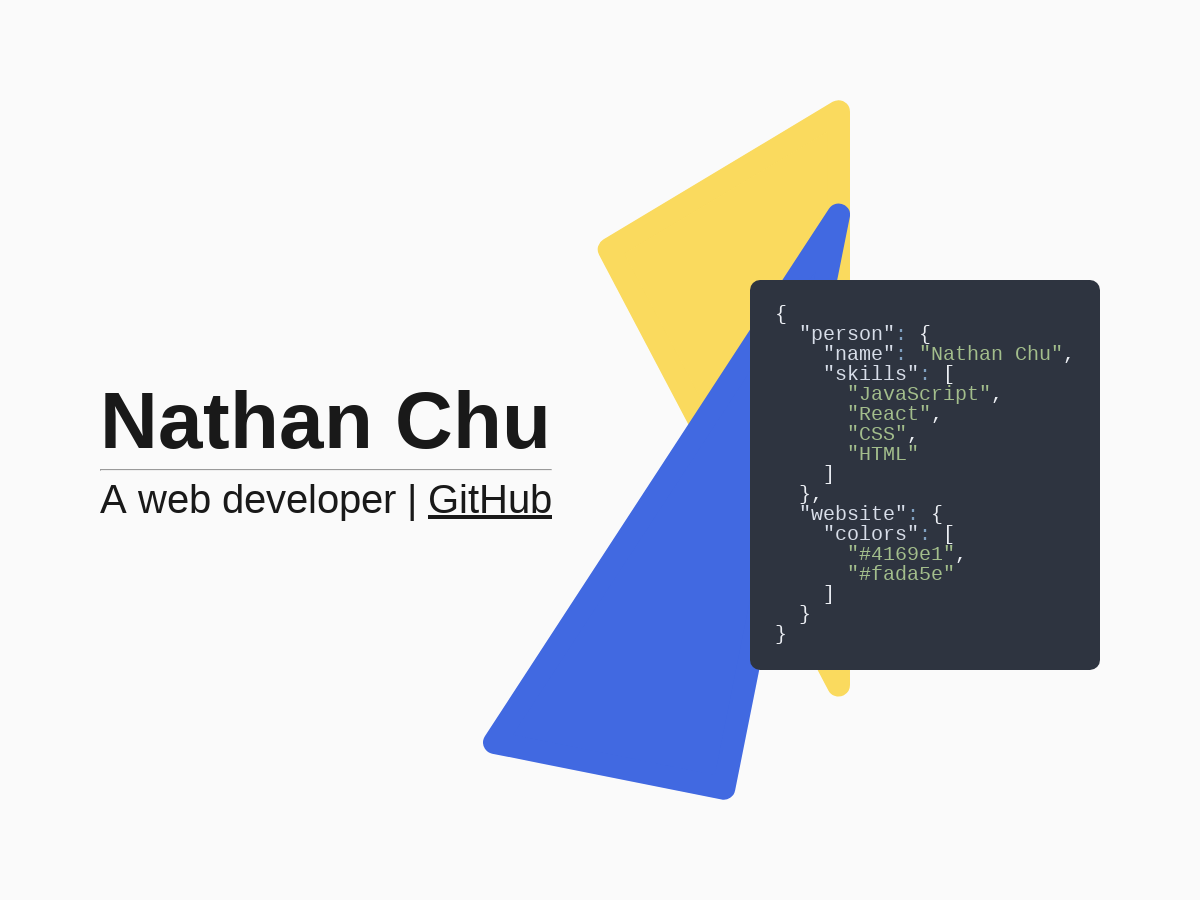
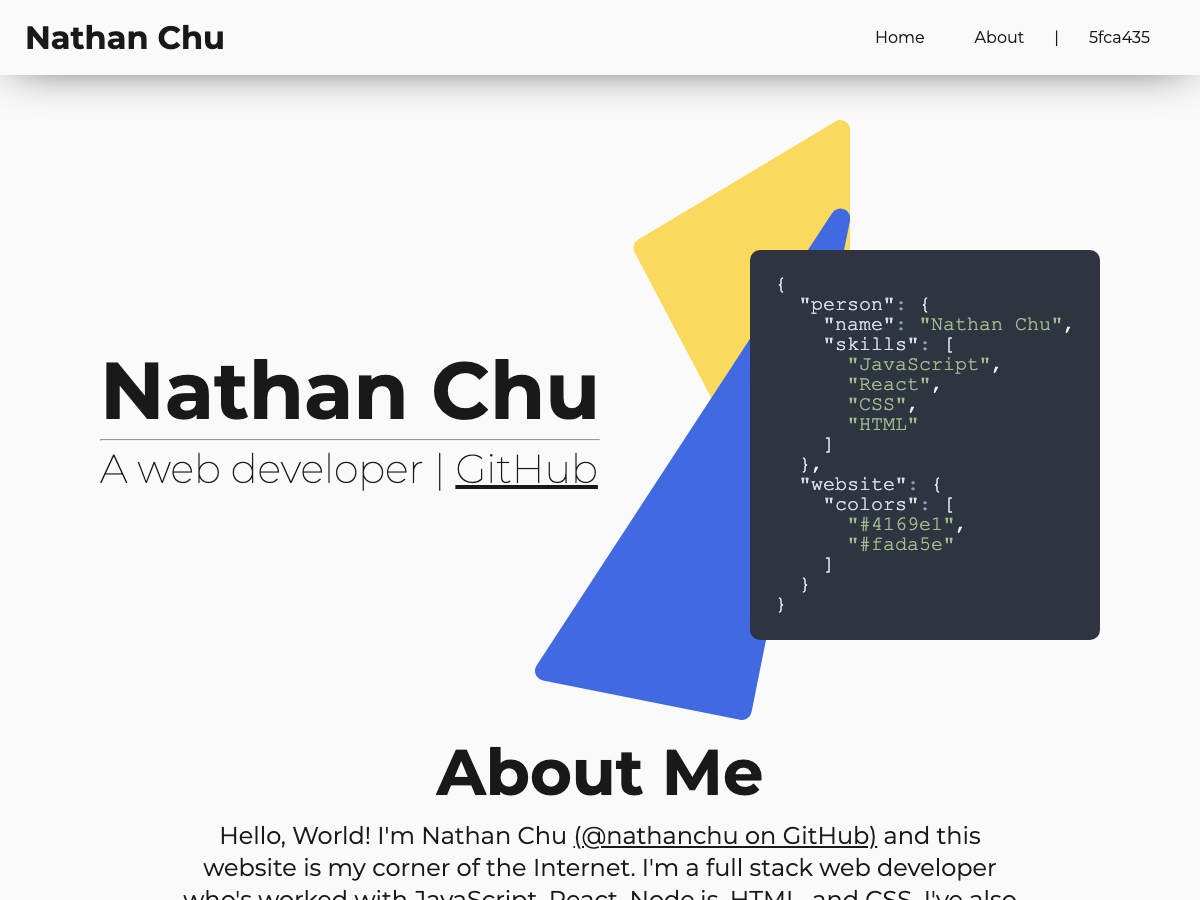
Work on projects

diff --git a/src/components/projects.js b/src/components/projects.js
@@ -1,0 +1,44 @@
+import * as React from 'react'
+import styles from '../css/projects.module.css'
+import { Card, ImageCard } from './cards'
+import { StaticImage } from 'gatsby-plugin-image'
+import { aProps } from '../utilities'
+
+const projects = [
+  {
+    title: 'My Website',
+    website: 'https://nathanchu.com/',
+    repo: 'nathanchu/website',
+    description: "The website you're looking at right now! It's built using Gatsby, and hosted on Vercel. It's highly customizable if you want to do that, too!",
+    image: <StaticImage src="../images/projects/website.png" />
+  },
+  {
+    title: 'Weather App',
+    repo: 'Ryyn-Sd/weather',
+    website: 'https://weather.rayyansaidi.com/',
+    description: "A weather app I worked on using openweathermap and React. It detects your location through your ip, but also allows you to change your zip code.",
+    image: <StaticImage src="../images/projects/weather.png" />
+  }
+]
+
+const Projects = () => {
+  return (
+    <div className={styles.projects}>
+      <h1>Projects</h1>
+      {
+        projects.map(({title, repo, website, description, image}) => (
+          <div className={styles.project}>
+            <Card>
+              <h2><a {...aProps} href={website}>{title}</a> (<a {...aProps} href={`https://github.com/${repo}`}>{repo}</a>)</h2>
+              <br />
+              <p>{description}</p>
+            </Card>
+            <ImageCard><a {...aProps} href={website}>{image}</a></ImageCard>
+          </div>
+        ))
+      }
+    </div>
+  )
+}
+
+export default Projects

diff --git a/src/components/nav.js b/src/components/nav.js
@@ -25,7 +25,11 @@ const query = graphql`
 `
 
 const Nav = () => {
-  const { site: { siteMetadata: { sha, repo } } } = useStaticQuery(query)
+  const {
+    site: {
+      siteMetadata: { sha, repo }
+    }
+  } = useStaticQuery(query)
   return (
     <div className={styles.nav}>
       <span className={styles.title}>Nathan Chu</span>
@@ -41,8 +45,16 @@ const Nav = () => {
               {link ? <Link to={link}>{name}</Link> : name}
             </li>
           ))}
-          <li className={`${styles.extraLink} ${styles.displayLink}`}>|</li>
-          <li className={styles.extraLink}><a href={`https://github.com/${repo}/commit/${sha}`}>{sha.substring(0, 7)}</a></li>
+          {sha && repo && (
+            <>
+              <li className={`${styles.extraLink} ${styles.displayLink}`}>|</li>
+              <li className={styles.extraLink}>
+                <a href={`https://github.com/${repo}/commit/${sha}`}>
+                  {sha.substring(0, 7)}
+                </a>
+              </li>
+            </>
+          )}
         </ul>
       </nav>
     </div>

diff --git a/build.js b/build.js
@@ -1,0 +1,30 @@
+const puppeteer = require('puppeteer')
+const path = require('path')
+const fs = require('fs');
+
+function newWriteFile(screenshot) {
+  return function writeFile(file) {
+    return new Promise((resolve, reject) => {
+      fs.writeFile(path.join(__dirname, file), screenshot, (err) => {
+        if (err) return reject(err)
+        resolve()
+      })
+    })
+  }
+}
+
+;(async () => {
+  const browser = await puppeteer.launch();
+  const page = await browser.newPage();
+  await page.setViewport({ width: 1200, height: 900 })
+  async function screenshot(site, file) {
+    await page.goto(site);
+    const writeFile = newWriteFile(await page.screenshot())
+    if (Array.isArray(file)) await Promise.all(file.map(writeFile));
+    if (typeof file === 'string') await writeFile(file)
+    return file
+  }
+  await screenshot('https://nathanchu.com/', ['static/banner.png', 'src/images/projects/website.png'])
+  await screenshot('https://weather.rayyansaidi.com/', 'src/images/projects/weather.png')
+  await browser.close();
+})()

diff --git a/src/pages/index.js b/src/pages/index.js
@@ -3,16 +3,19 @@ import { Helmet } from 'react-helmet'
 import Nav from '../components/nav'
 import Main from '../components/main'
 import About from '../components/about'
+import Projects from '../components/projects'
 import '../css/reset.css'
 import '../css/index.css'
 import SEO from '../components/seo'
 
 const Home = () => {
   return (
-    <div className="home">
+    <div style={{ margin: '100px 0' }}>
       <Helmet>
         <link
-          href="https://fonts.googleapis.com/css2?family=Montserrat:wght@300;400;700&amp;family=family=Source+Code+Pro&amp;display=swap"
+          href={
+            'https://fonts.googleapis.com/css2?family=Montserrat:wght@300;400;700&family=family=Source+Code+Pro&display=swap'
+          }
           rel="stylesheet"
         />
       </Helmet>
@@ -20,6 +23,7 @@ const Home = () => {
       <Nav />
       <Main />
       <About />
+      <Projects />
     </div>
   )
 }

diff --git a/src/components/cards.js b/src/components/cards.js
@@ -1,0 +1,38 @@
+import styled from 'styled-components'
+
+const Card = styled.div`
+  background-color: var(--card-bg-color);
+  box-shadow: 0 0 10px rgba(0, 0, 0, 0.1);
+  border-radius: 10px;
+  padding: 25px;
+  margin: 50px 15px;
+  @media (min-width: 992px) {
+    max-width: 576px;
+    padding-right: 100px;
+  }
+  & h2 {
+    font-weight: bold;
+    font-size: 1.75rem;
+    line-height: 2.25rem;
+  }
+  & p {
+    font-weight: normal;
+    font-size: 1.25rem;
+    line-height: 1.75rem;
+  }
+`
+
+const ImageCard = styled.div`
+  display: none;
+  background-color: var(--card-bg-color);
+  box-shadow: 0 0 10px rgba(0, 0, 0, 0.1);
+  border-radius: 10px;
+  margin: 15px;
+  margin-left: -85px;
+  @media (min-width: 992px) {
+    display: block;
+  }
+`
+
+export default Card
+export { Card, ImageCard }

diff --git a/gatsby-config.js b/gatsby-config.js
@@ -7,8 +7,12 @@ module.exports = {
     siteUrl: 'https://nathanchu.com',
     url: 'https://nathanchu.com',
     image: '/banner.png',
-    sha: `${process.env.VERCEL_GIT_COMMIT_SHA}`,
-    repo: `${process.env.VERCEL_GIT_REPO_OWNER}/${process.env.VERCEL_GIT_REPO_SLUG}`
+    sha: process.env.GIT_SHA || process.env.VERCEL_GIT_COMMIT_SHA || null,
+    repo:
+      process.env.GIT_REPO ||
+      (process.env.VERCEL_GIT_REPO_OWNER && process.env.VERCEL_GIT_REPO_SLUG
+        ? `${process.env.VERCEL_GIT_REPO_OWNER}/${process.env.VERCEL_GIT_REPO_SLUG}`
+        : null)
   },
   plugins: [
     'gatsby-plugin-image',
@@ -48,6 +52,7 @@ module.exports = {
         path: './src/pages/'
       },
       __key: 'pages'
-    }
+    },
+    'gatsby-plugin-styled-components'
   ]
 }

diff --git a/src/css/index.css b/src/css/index.css
@@ -1,15 +1,26 @@
 :root {
   --white: #fafafa;
   --black: #191919;
+  --light-black: #303030;
+  --card-bg-color: var(--white);
   --bg-color: var(--white);
   --color: var(--black);
 }
 
 @media (prefers-color-scheme: dark) {
   :root {
+    --card-bg-color: var(--light-black);
     --bg-color: var(--black);
     --color: var(--white);
   }
+}
+
+html {
+  box-sizing: border-box;
+  scroll-behavior: smooth;
+}
+*, *::before, *::after {
+  box-sizing: inherit;
 }
 
 body {
@@ -17,7 +28,4 @@ body {
   color: var(--color);
   font-family: 'Montserrat', -apple-system, BlinkMacSystemFont, 'Segoe UI',
     Roboto, Oxygen, Ubuntu, Cantarell, 'Open Sans', 'Helvetica Neue', sans-serif;
-}
-.home {
-  margin: 100px 0;
 }

diff --git a/src/components/about.js b/src/components/about.js
@@ -11,9 +11,9 @@ const About = () => (
       <a {...aProps} href="https://github.com/nathanchu">
         (@nathanchu on GitHub)
       </a>{' '}
-      and this website is my corner of the Internet. I'm a full stack web developer
-      who's worked with JavaScript, React, Node.js, HTML, and CSS. I've also
-      worked some with PHP and SQL.
+      and this website is my corner of the Internet. I'm a full stack web
+      developer who's worked with JavaScript, React, Node.js, HTML, and CSS.
+      I've also worked some with PHP and SQL.
     </p>
   </div>
 )

diff --git a/gatsby-node.js b/gatsby-node.js
@@ -1,0 +1,13 @@
+exports.createSchemaCustomization = ({ actions: { createTypes } }) =>
+  createTypes(`
+  type SiteSiteMetadata {
+    title: String
+    titleTemplate: String
+    description: String
+    siteUrl: String
+    url: String
+    image: String
+    sha: String
+    repo: String
+  }
+`)

diff --git a/src/css/nav.module.css b/src/css/nav.module.css
@@ -10,8 +10,8 @@
   right: 0;
   bottom: 0;
   height: 75px;
-  background-color: var(--bg-color);
-  box-shadow: 0 0 50px -15px var(--black);
+  background-color: var(--card-bg-color);
+  box-shadow: 0 0 50px -25px var(--black);
 }
 .title {
   font-weight: bold;

diff --git a/src/css/projects.module.css b/src/css/projects.module.css
@@ -1,0 +1,15 @@
+.projects {
+  display: flex;
+  flex-direction: column;
+  align-items: center;
+}
+.projects h1 {
+  margin-top: 100px;
+  margin-bottom: 50px;
+  font-size: 4rem;
+  font-weight: bold;
+}
+.project {
+  display: flex;
+  align-items: center;
+}
